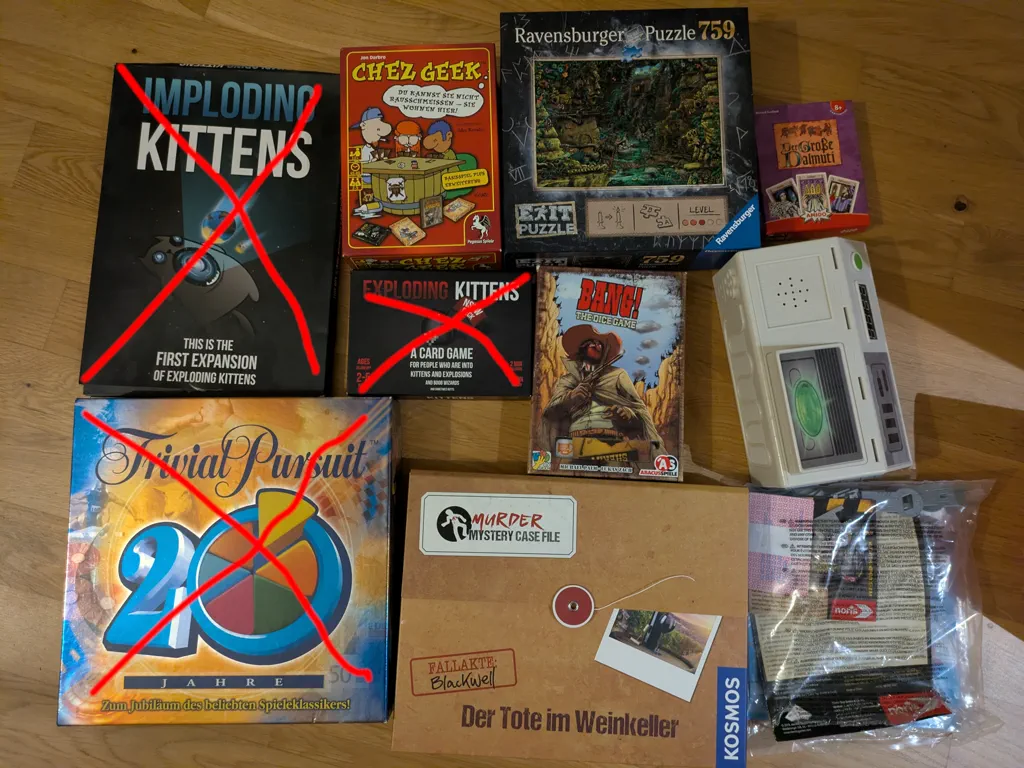
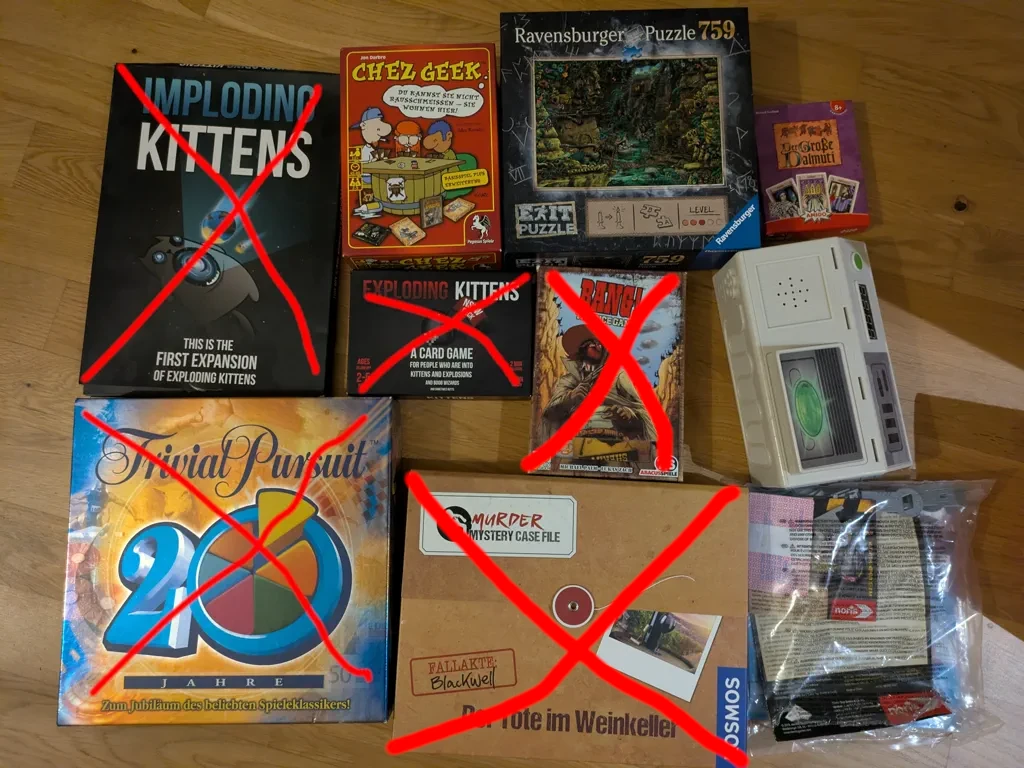
Sale update2 (#8)
* Add draft of scala3 macros post.

* Remove old draft.

* Added some articles, marked some as sold.

---------

Changed region(s): [[0.375, 0.5938, 0.75, 1.0], [0.5, 0.3438, 0.6875, 0.625]]

diff --git a/ausverkauf.html b/ausverkauf.html
@@ -60,6 +60,24 @@
     <div class="items">
 
       <article class="item">
+        <div class="gallery" aria-label="TV-Lowboard">
+          <div class="slide"><img src="assets/posts/sale/tvlowboard1.webp" alt="TV-Lowboard, Ansicht 1"></div>
+          <div class="slide" hidden><img src="assets/posts/sale/tvlowboard2.webp" alt="TV-Lowboard, Ansicht 2"></div>
+          <div class="slide" hidden><img src="assets/posts/sale/tvlowboard3.webp" alt="TV-Lowboard, Ansicht 3"></div>
+          <div class="controls" hidden>
+            <button type="button" class="previous" aria-label="Vorheriges Bild" title="Vorheriges Bild">&#8592;</button>
+            <span class="counter" aria-live="polite"></span>
+            <button type="button" class="next" aria-label="Nächstes Bild" title="Nächstes Bild">&#8594;</button>
+          </div>
+        </div>
+        <div class="details">
+          <div class="item-heading"><h2>TV-Lowboard / TV Stand</h2><p class="price">&euro; 50</p></div>
+          <p class="description">Fernsehmöbel, Hochglanz weiß mit Eichen Akzenten. Solide verarbeitet, schwer (kein Ikea). Sehr guter Zustand.</p>
+          <p class="description">TV furniture, high-gloss white with oak accents. Solidly built, heavy (not Ikea). Very good condition.</p>
+        </div>
+      </article>
+
+      <article class="item sold">
         <div class="gallery" aria-label="Schreibtisch">
           <div class="slide"><img src="assets/posts/sale/schreibtisch1.webp" alt="Schreibtisch, Ansicht 1"></div>
           <div class="slide" hidden><img src="assets/posts/sale/schreibtisch2.webp" alt="Schreibtisch, Ansicht 2"></div>
@@ -72,9 +90,28 @@
           </div>
         </div>
         <div class="details">
-          <div class="item-heading"><h2>Höhenverstellbarer Schreibtisch / Height-Adjustable Desk</h2><p class="price">&euro; 200</p></div>
+          <div class="item-heading"><h2><span class="sold-label">SOLD</span> <span class="sold-title">Höhenverstellbarer Schreibtisch / Height-Adjustable Desk</span></h2><p class="price">&euro; 200</p></div>
           <p class="description">Ikea Bekannt. Elektrisch Höhenverstellbar. Im sitzen und stehen verwendbar. Ca. 2 Jahre alt, super Zustand. 120x80cm</p>
           <p class="description">Ikea Bekannt. Electric height-adjustable. Usable while sitting and standing. Approximately 2 years old, excellent condition. 120x80cm</p>
+        </div>
+      </article>
+
+      <article class="item">
+        <div class="gallery" aria-label="kallax regal">
+          <div class="slide"><img src="assets/posts/sale/kallax3x4_1.webp" alt="Kallax Regal, Ansicht 1"></div>
+          <div class="slide" hidden><img src="assets/posts/sale/kallax3x4_2.webp" alt="Kallax Regal, Ansicht 2"></div>
+          <div class="slide" hidden><img src="assets/posts/sale/kallax3x4_3.webp" alt="Kallax Regal, Ansicht 3"></div>
+          <div class="slide" hidden><img src="assets/posts/sale/kallax3x4_4.webp" alt="Kallax Regal, Ansicht 4"></div>
+          <div class="controls" hidden>
+            <button type="button" class="previous" aria-label="Vorheriges Bild" title="Vorheriges Bild">&#8592;</button>
+            <span class="counter" aria-live="polite"></span>
+            <button type="button" class="next" aria-label="Nächstes Bild" title="Nächstes Bild">&#8594;</button>
+          </div>
+        </div>
+        <div class="details">
+          <div class="item-heading"><h2>Kallax Regal / Kallax Shelf</h2><p class="price">&euro; 20</p></div>
+          <p class="description">Weißes Kallax-Regal von IKEA, 3x4 Fächer. Flaschenfach-Einsatz herausnehmbar. Maße:  112x147 cm</p>
+          <p class="description">White Kallax shelf from IKEA, 3x4 compartments. Bottle compartment insert removable. Dimensions: 112x147 cm.</p>
         </div>
       </article>
 
@@ -95,7 +132,7 @@
         </div>
       </article>
 
-      <article class="item">
+      <article class="item sold">
         <div class="gallery" aria-label="CD-Regal">
           <div class="slide"><img src="assets/posts/sale/cdregal.webp" alt="CD-Regal"></div>
           <div class="controls" hidden>
@@ -105,7 +142,7 @@
           </div>
         </div>
         <div class="details">
-          <div class="item-heading"><h2>CD/DVD-Regal / CD/DVD Shelf</h2><p class="price">&euro; 5</p></div>
+          <div class="item-heading"><h2><span class="sold-label">SOLD</span> <span class="sold-title">CD/DVD-Regal / CD/DVD Shelf</span></h2><p class="price">&euro; 5</p></div>
           <p class="description">Schwarzes CD/DVD Regal. Maße 202x20x17cm (h,b,t)</p>
           <p class="description">Ikea CD/DVD shelf, black. Dimensions: 202x20x17 cm.</p>
         </div>
@@ -129,7 +166,7 @@
         </div>
       </article>
 
-      <article class="item">
+      <article class="item sold">
         <div class="gallery" aria-label="Schreibtischstuhl">
           <div class="slide"><img src="assets/posts/sale/schreibtischsessel1.webp" alt="Schreibtischstuhl, Ansicht 1"></div>
           <div class="slide" hidden><img src="assets/posts/sale/schreibtischsessel2.webp" alt="Schreibtischstuhl, Ansicht 2"></div>
@@ -141,13 +178,13 @@
           </div>
         </div>
         <div class="details">
-          <div class="item-heading"><h2>Schreibtischstuhl / Desk Chair</h2><p class="price">&euro; 40</p></div>
+          <div class="item-heading"><h2><span class="sold-label">SOLD</span> <span class="sold-title">Schreibtischstuhl / Desk Chair</span></h2><p class="price">&euro; 40</p></div>
           <p class="description">Ikea Flintan Schreibtischsessel, schwarz. Ca. 2 Jahre alt in sehr gutem Zustand.</p>
           <p class="description">Ikea Flintan desk chair, black. Approximately 2 years old, in excellent condition.</p>
         </div>
       </article>
 
-      <article class="item">
+      <article class="item sold">
         <div class="gallery" aria-label="Sporttasche">
           <div class="slide"><img src="assets/posts/sale/sporttasche1.webp" alt="Sporttasche, Ansicht 1"></div>
           <div class="slide" hidden><img src="assets/posts/sale/sporttasche3.webp" alt="Sporttasche, Ansicht 2"></div>
@@ -159,13 +196,13 @@
           </div>
         </div>
         <div class="details">
-          <div class="item-heading"><h2>Sporttasche / Sports Bag</h2><p class="price">&euro; 5</p></div>
+          <div class="item-heading"><h2><span class="sold-label">SOLD</span> <span class="sold-title">Sporttasche / Sports Bag</span></h2><p class="price">&euro; 5</p></div>
           <p class="description">Under Armour Sporttasche, schwarz. Ca. 52x28cm.</p>
           <p class="description">Under Armour sports bag, black. Approximately 52x28cm.</p>
         </div>
       </article>
 
-      <article class="item">
+      <article class="item sold">
         <div class="gallery" aria-label="Waschbeckenunterschrank">
           <div class="slide"><img src="assets/posts/sale/waschbeckenunterschrank1.webp" alt="Waschbeckenunterschrank, Ansicht 1"></div>
           <div class="slide" hidden><img src="assets/posts/sale/waschbeckenunterschrank2.webp" alt="Waschbeckenunterschrank, Ansicht 2"></div>
@@ -179,25 +216,9 @@
           </div>
         </div>
         <div class="details">
-          <div class="item-heading"><h2>Waschbeckenunterschrank / Bathroom Sink Cabinet</h2><p class="price">&euro; 10</p></div>
+          <div class="item-heading"><h2><span class="sold-label">SOLD</span> <span class="sold-title">Waschbeckenunterschrank / Bathroom Sink Cabinet</span></h2><p class="price">&euro; 10</p></div>
           <p class="description">Von Schildmeyer Modell "Bello". Untere Lade hat innen Abnutzungsspuren, außen einen Spritzer Haarfärbemittel. Maße: 67x56,5x33cm</p>
           <p class="description">Cabinet by Schildmeyer model "Bello". The lower drawer has internal wear marks, and the outside has a hair dye stain. Dimensions: 67x56.5x33 cm.</p>
-        </div>
-      </article>
-
-      <article class="item">
-        <div class="gallery" aria-label="kallax regal">
-          <div class="slide"><img src="assets/posts/sale/kallax.jpg" alt="Kallax Regal, weiß"></div>
-          <div class="controls" hidden>
-            <button type="button" class="previous" aria-label="Vorheriges Bild" title="Vorheriges Bild">&#8592;</button>
-            <span class="counter" aria-live="polite"></span>
-            <button type="button" class="next" aria-label="Nächstes Bild" title="Nächstes Bild">&#8594;</button>
-          </div>
-        </div>
-        <div class="details">
-          <div class="item-heading"><h2>Kallax Regal / Kallax Shelf</h2><p class="price">&euro; 20</p></div>
-          <p class="description">Weißes Kallax-Regal von IKEA, 3x4 Fächer. Flaschenfach-Einsatz herausnehmbar. Maße:  112x147 cm</p>
-          <p class="description">White Kallax shelf from IKEA, 3x4 compartments. Bottle compartment insert removable. Dimensions: 112x147 cm.</p>
         </div>
       </article>
 
@@ -221,9 +242,10 @@
       </article>
 
       <article class="item">
-        <div class="gallery" aria-label="Lampe">
-          <div class="slide"><img src="assets/posts/sale/lampe1_1.webp" alt="Deckenleuchte"></div>
-          <div class="slide" hidden><img src="assets/posts/sale/lampe1_2.webp" alt="Lampe, Ansicht 2"></div>
+        <div class="gallery" aria-label="Wandlampe">
+          <div class="slide"><img src="assets/posts/sale/lampe6_1.webp" alt="Wandlampe, Ansicht 1"></div>
+          <div class="slide" hidden><img src="assets/posts/sale/lampe6_2.webp" alt="Wandlampe, Ansicht 2"></div>
+          <div class="slide" hidden><img src="assets/posts/sale/lampe6_3.webp" alt="Wandlampe, Ansicht 3"></div>
           <div class="controls" hidden>
             <button type="button" class="previous" aria-label="Vorheriges Bild" title="Vorheriges Bild">&#8592;</button>
             <span class="counter" aria-live="polite"></span>
@@ -231,9 +253,9 @@
           </div>
         </div>
         <div class="details">
-          <div class="item-heading"><h2>Deckenleuchte / Ceiling Light</h2><p class="price">&euro; 5</p></div>
-          <p class="description">Bauchige Deckenleuchte, außen schwarz, innen goldfarben. Durchmesser ca. ~40cm, Höhe ca. ~44cm.</p>
-          <p class="description">Bulbous ceiling light with a black exterior and golden interior. Diameter approximately 40cm, height approximately 44cm.</p>
+          <div class="item-heading"><h2>Wandlampe / Wall Lamp</h2><p class="price">&euro; 5</p></div>
+          <p class="description">Spot-Lampe, schwenkbar.</p>
+          <p class="description">Adjustable spot lamp.</p>
         </div>
       </article>
 
@@ -282,6 +304,23 @@
           <div class="item-heading"><h2>Diverse Brettspiele / Various Board Games</h2><p class="price">gratis/free</p></div>
           <p class="description">Diverse Brettspiele.</p>
           <p class="description">Various board games.</p>
+        </div>
+      </article>
+
+      <article class="item sold">
+        <div class="gallery" aria-label="Lampe">
+          <div class="slide"><img src="assets/posts/sale/lampe1_1.webp" alt="Deckenleuchte"></div>
+          <div class="slide" hidden><img src="assets/posts/sale/lampe1_2.webp" alt="Lampe, Ansicht 2"></div>
+          <div class="controls" hidden>
+            <button type="button" class="previous" aria-label="Vorheriges Bild" title="Vorheriges Bild">&#8592;</button>
+            <span class="counter" aria-live="polite"></span>
+            <button type="button" class="next" aria-label="Nächstes Bild" title="Nächstes Bild">&#8594;</button>
+          </div>
+        </div>
+        <div class="details">
+          <div class="item-heading"><h2><span class="sold-label">SOLD</span> <span class="sold-title">Deckenleuchte / Ceiling Light</span></h2><p class="price">&euro; 5</p></div>
+          <p class="description">Bauchige Deckenleuchte, außen schwarz, innen goldfarben. Durchmesser ca. ~40cm, Höhe ca. ~44cm.</p>
+          <p class="description">Bulbous ceiling light with a black exterior and golden interior. Diameter approximately 40cm, height approximately 44cm.</p>
         </div>
       </article>
 
@@ -391,6 +430,12 @@
     </div>
   </main>
   <script>
+    var items = document.querySelector('.items');
+    var articles = Array.from(items.children);
+    articles.filter(function (article) { return !article.classList.contains('sold'); })
+      .concat(articles.filter(function (article) { return article.classList.contains('sold'); }))
+      .forEach(function (article) { items.appendChild(article); });
+
     document.querySelectorAll('.gallery').forEach(function (gallery) {
       var slides = gallery.querySelectorAll('.slide');
       var controls = gallery.querySelector('.controls');
